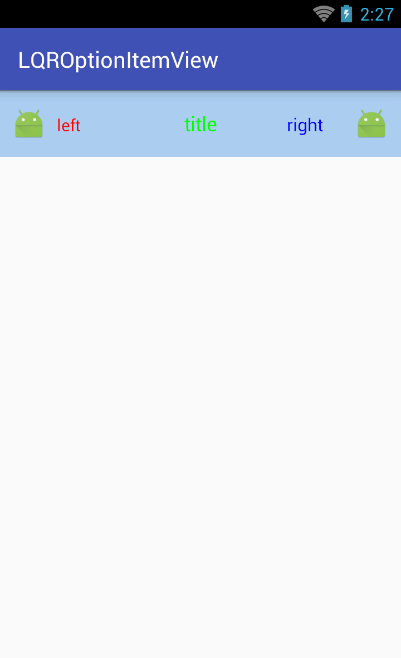
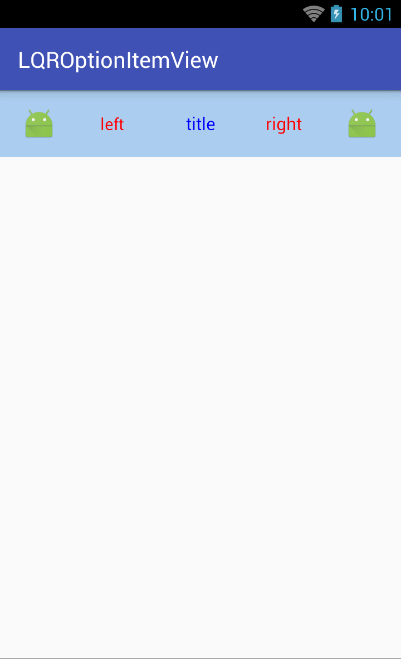
增加图片间距及文字间距属性，方便美化

diff --git a/library/src/main/java/com/lqr/optionitemview/OptionItemView.java b/library/src/main/java/com/lqr/optionitemview/OptionItemView.java
@@ -75,9 +75,17 @@ public class OptionItemView extends View {
     private float leftTextSize = (int) TypedValue.applyDimension(TypedValue.COMPLEX_UNIT_SP,
             16, getResources().getDisplayMetrics());
     /**
-     * 左边文字左边距
+     * 左字左边距
      */
-    private float leftTextMarginLeft = -1;
+    private int leftTextMarginLeft = -1;
+    /**
+     * 左图左边距
+     */
+    private int leftImageMarginLeft = -1;
+    /**
+     * 左图右边距
+     */
+    private int leftImageMarginRight = -1;
     /**
      * 左边文字颜色
      */
@@ -96,9 +104,17 @@ public class OptionItemView extends View {
      */
     private int rightTextColor = Color.BLACK;
     /**
-     * 右边文字左边距
+     * 右字右边距
      */
     private int rightTextMarginRight = -1;
+    /**
+     * 右图左边距
+     */
+    private int rightImageMarginLeft = -1;
+    /**
+     * 右图右边距
+     */
+    private int rightImageMarginRight = -1;
 
     private Paint mPaint;
     /**
@@ -145,18 +161,28 @@ public class OptionItemView extends View {
             } else if (attr == R.styleable.OptionItemView_left_text_margin_left) {
                 leftTextMarginLeft = typedArray.getDimensionPixelSize(attr, (int) TypedValue.applyDimension(TypedValue.COMPLEX_UNIT_DIP,
                         -1, getResources().getDisplayMetrics()));
+            } else if (attr == R.styleable.OptionItemView_left_image_margin_left) {
+                leftImageMarginLeft = typedArray.getDimensionPixelSize(attr, (int) TypedValue.applyDimension(TypedValue.COMPLEX_UNIT_DIP,
+                        -1, getResources().getDisplayMetrics()));
+            } else if (attr == R.styleable.OptionItemView_left_image_margin_right) {
+                leftImageMarginRight = typedArray.getDimensionPixelSize(attr, (int) TypedValue.applyDimension(TypedValue.COMPLEX_UNIT_DIP,
+                        -1, getResources().getDisplayMetrics()));
             } else if (attr == R.styleable.OptionItemView_left_text_color) {
                 leftTextColor = typedArray.getColor(attr, Color.BLACK);
 
             } else if (attr == R.styleable.OptionItemView_right_text) {
                 rightText = typedArray.getString(attr);
-
             } else if (attr == R.styleable.OptionItemView_right_text_size) {
                 rightTextSize = typedArray.getDimensionPixelSize(attr, (int) TypedValue.applyDimension(TypedValue.COMPLEX_UNIT_SP,
                         16, getResources().getDisplayMetrics()));
-
             } else if (attr == R.styleable.OptionItemView_right_text_margin_right) {
                 rightTextMarginRight = typedArray.getDimensionPixelSize(attr, (int) TypedValue.applyDimension(TypedValue.COMPLEX_UNIT_DIP,
+                        -1, getResources().getDisplayMetrics()));
+            } else if (attr == R.styleable.OptionItemView_right_image_margin_left) {
+                rightImageMarginLeft = typedArray.getDimensionPixelSize(attr, (int) TypedValue.applyDimension(TypedValue.COMPLEX_UNIT_DIP,
+                        -1, getResources().getDisplayMetrics()));
+            } else if (attr == R.styleable.OptionItemView_right_image_margin_right) {
+                rightImageMarginRight = typedArray.getDimensionPixelSize(attr, (int) TypedValue.applyDimension(TypedValue.COMPLEX_UNIT_DIP,
                         -1, getResources().getDisplayMetrics()));
             } else if (attr == R.styleable.OptionItemView_right_text_color) {
                 rightTextColor = typedArray.getColor(attr, Color.BLACK);
@@ -214,7 +240,7 @@ public class OptionItemView extends View {
 
         if (leftImage != null && isShowLeftImg) {
             // 计算左图范围
-            rect.left = mWidth / 32;
+            rect.left = leftImageMarginLeft >= 0 ? leftImageMarginLeft : mWidth / 32;
             rect.right = rect.left + mHeight * 1 / 2;
             rect.top = mHeight / 4;
             rect.bottom = mHeight * 3 / 4;
@@ -222,7 +248,7 @@ public class OptionItemView extends View {
         }
         if (rightImage != null && isShowRightImg) {
             // 计算右图范围
-            rect.right = mWidth * 31 / 32;
+            rect.right = mWidth - (rightImageMarginRight >= 0 ? rightImageMarginRight : mWidth / 32);
             rect.left = rect.right - mHeight * 1 / 2;
             rect.top = mHeight / 4;
             rect.bottom = mHeight * 3 / 4;
@@ -231,41 +257,32 @@ public class OptionItemView extends View {
         if (leftText != null && !leftText.equals("") && isShowLeftText) {
             mPaint.setTextSize(leftTextSize);
             mPaint.setColor(leftTextColor);
-            int w;
-            if (leftTextMarginLeft < 0) {
-                w = mWidth / 32;
-                if (leftImage != null) {
-                    w = mWidth / 32 + mHeight * 1 / 2 + mHeight / 8;
-                }
+            int w = 0;
+            if (leftImage != null) {
+                w += leftImageMarginLeft >= 0 ? leftImageMarginLeft : (mHeight / 8);//增加左图左间距
+                w += mHeight * 1 / 2;//图宽
+                w += leftImageMarginRight >= 0 ? leftImageMarginRight : (mWidth / 32);// 增加左图右间距
+                w += leftTextMarginLeft > 0 ? leftTextMarginLeft : 0;//增加左字左间距
             } else {
-                w = (int) leftTextMarginLeft;
-                if (leftImage != null) {
-                    w = (int) (mWidth / 32 + mHeight * 1 / 2 + leftTextMarginLeft);
-                }
+                w += leftTextMarginLeft >= 0 ? leftTextMarginLeft : (mWidth / 32);//增加左字左间距
             }
+
             mPaint.setTextAlign(Paint.Align.LEFT);
             canvas.drawText(leftText, w, baseLine, mPaint);
         }
         if (rightText != null && !rightText.equals("") && isShowRightText) {
-//            mPaint.setTextSize(rightTextSize);
-//            mPaint.setColor(rightTextColor);
-//            canvas.drawText(rightText, mWidth * 29 / 32, baseLine, mPaint);
             mPaint.setTextSize(rightTextSize);
             mPaint.setColor(rightTextColor);
 
-            int w;
-            if (rightTextMarginRight < 0) {
-                w = mWidth;
-                if (rightImage != null) {
-                    w = mWidth - mWidth / 32 - mHeight * 1 / 2 - mHeight / 8;
-                }
+            int w = mWidth;
+            if (rightImage != null) {
+                w -= rightImageMarginRight >= 0 ? rightImageMarginRight : (mHeight / 8);//增加右图右间距
+                w -= mHeight * 1 / 2;//增加图宽
+                w -= rightImageMarginLeft >= 0 ? rightImageMarginLeft : (mWidth / 32);//增加右图左间距
+                w -= rightTextMarginRight > 0 ? rightTextMarginRight : 0;//增加右字右间距
             } else {
-                w = mWidth - rightTextMarginRight;
-                if (rightImage != null) {
-                    w = mWidth - mWidth / 32 - mHeight * 1 / 2 - rightTextMarginRight;
-                }
+                w -= rightTextMarginRight >= 0 ? rightTextMarginRight : (mWidth / 32);//增加右字右间距
             }
-
 
             // 计算了描绘字体需要的范围
             mPaint.getTextBounds(rightText, 0, rightText.length(), mTextBound);
@@ -333,8 +350,18 @@ public class OptionItemView extends View {
         invalidate();
     }
 
+    public void setLeftImageMarginRight(int dp) {
+        leftImageMarginRight = dp2px(mContext, dp);
+        invalidate();
+    }
+
+    public void setLeftImageMarginLeft(int dp) {
+        this.leftImageMarginLeft = dp2px(mContext, dp);
+        invalidate();
+    }
+
     public void setLeftTextMarginLeft(int dp) {
-        leftTextMarginLeft = dp2px(mContext, dp);
+        this.leftTextMarginLeft = dp2px(mContext, dp);
         invalidate();
     }
 
@@ -373,8 +400,18 @@ public class OptionItemView extends View {
         invalidate();
     }
 
+    public void setRightImageMarginLeft(int dp) {
+        rightImageMarginLeft = dp2px(mContext, dp);
+        invalidate();
+    }
+
+    public void setRightImageMarginRight(int dp) {
+        this.rightImageMarginRight = dp2px(mContext, dp);
+        invalidate();
+    }
+
     public void setRightTextMarginRight(int dp) {
-        rightTextMarginRight = dp2px(mContext, dp);
+        this.rightTextMarginRight = dp2px(mContext, dp);
         invalidate();
     }
 

diff --git a/README.md b/README.md
@@ -9,30 +9,32 @@
 ##***二、使用：***
 ###1、在自己项目中添加本项目依赖：
 
-	compile 'com.lqr.optionitemview:library:1.0.5'
+	compile 'com.lqr.optionitemview:library:1.0.6'
 
 ###2、在布局中使用（属性可选，不设置则不显示）：
 一般图标的高度是控件高度的一半，所以没有做该自定义属性，写死了。
 
-	<com.lqr.library.OptionItemView
-		android:id="@+id/oiv"
+	<com.lqr.optionitemview.OptionItemView
+        android:id="@+id/oiv"
         android:layout_width="match_parent"
         android:layout_height="60dp"
         android:background="#abcdef"
+        app:left_image_margin_left="20dp"
+        app:left_image_margin_right="20dp"
         app:left_src="@mipmap/ic_launcher"
         app:left_text="left"
         app:left_text_color="#f00"
-        app:left_text_margin_left="10dp"
+        app:left_text_margin_left="20dp"
         app:left_text_size="15sp"
+        app:right_image_margin_left="20dp"
+        app:right_image_margin_right="20dp"
         app:right_src="@mipmap/ic_launcher"
         app:right_text="right"
-        app:right_text_color="#00f"
-        app:right_text_margin_right="30dp"
+        app:right_text_color="#f00"
+        app:right_text_margin_right="20dp"
         app:right_text_size="16sp"
         app:title="title"
-        app:title_color="#0f0"
-        app:title_size="18sp"/>
-
+        app:title_color="#00f"/>
 ###3、监听左图标和右图标的点击事件
 
 	OptionItemView oiv = (OptionItemView) findViewById(R.id.oiv);
@@ -60,6 +62,8 @@
 	setLeftTextSize(int sp)
 	setLeftTextColor(int color)
 	setLeftTextMarginLeft(int dp)
+	setLeftImageMarginLeft(int dp)
+	setLeftImageMarginRight(int dp)
 	setLeftImage(Bitmap bitmap)
 	showLeftImg(boolean flag)
 	showLeftText(boolean flag)
@@ -70,8 +74,10 @@
 	setRightTextColor(int color)
 	setRightTextSize(int sp)
 	setRightTextMarginRight(int dp)
+	setRightImageMarginLeft(int dp)
+	setRightImageMarginRight(int dp)
 	showRightImg(boolean flag)
 	showRightText(boolean flag)
 
-###5、自定义属性解释
+###5、个别自定义属性解释
 ![image](screenshots/2.png)
